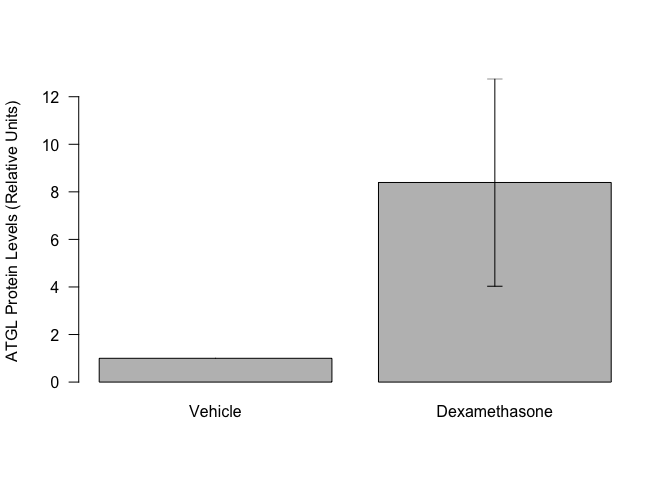
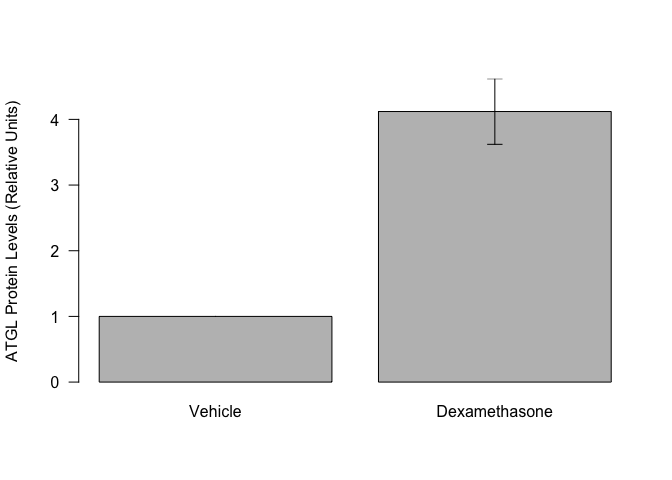
Updated 3T3-L1 blot quantification with Revert normalized values

diff --git a/scripts/scripts-obesity/3T3-L1_Blot_Quantification.html b/scripts/scripts-obesity/3T3-L1_Blot_Quantification.html
@@ -146,7 +146,7 @@ $(document).ready(function () {
 <div id="raw-data" class="section level1">
 <h1>Raw Data</h1>
 <p>The input data is the quantified band intensities.</p>
-<p>These data can be found in /Users/davebrid/Documents/GitHub/CushingAcromegalyStudy/scripts/scripts-obesity in a file named ../../data/raw/3T3-L1 Blot Quantification.csv. This script was most recently updated on Wed Aug 16 14:55:42 2017.</p>
+<p>These data can be found in /Users/davebrid/Documents/GitHub/CushingAcromegalyStudy/scripts/scripts-obesity in a file named ../../data/raw/3T3-L1 Blot Quantification.csv. This script was most recently updated on Sun Sep 3 07:10:51 2017.</p>
 </div>
 <div id="analysis" class="section level1">
 <h1>Analysis</h1>
@@ -158,6 +158,8 @@ $(document).ready(function () {
 <th align="right">ATGL</th>
 <th align="right">GAPDH</th>
 <th align="left">Experiment</th>
+<th align="right">ATGL.Revert</th>
+<th align="right">Revert</th>
 <th align="right">Normalized.Levels</th>
 <th align="right">Relative.Levels</th>
 </tr>
@@ -168,7 +170,9 @@ $(document).ready(function () {
 <td align="right">318500</td>
 <td align="right">855000</td>
 <td align="left">1</td>
-<td align="right">0.373</td>
+<td align="right">6505</td>
+<td align="right">2815000</td>
+<td align="right">0.002</td>
 <td align="right">1.00</td>
 </tr>
 <tr class="even">
@@ -176,7 +180,9 @@ $(document).ready(function () {
 <td align="right">327000</td>
 <td align="right">945500</td>
 <td align="left">2</td>
-<td align="right">0.346</td>
+<td align="right">4820</td>
+<td align="right">2735000</td>
+<td align="right">0.002</td>
 <td align="right">1.00</td>
 </tr>
 <tr class="odd">
@@ -184,23 +190,29 @@ $(document).ready(function () {
 <td align="right">1170000</td>
 <td align="right">803000</td>
 <td align="left">1</td>
-<td align="right">1.457</td>
-<td align="right">3.91</td>
+<td align="right">19600</td>
+<td align="right">2450000</td>
+<td align="right">0.008</td>
+<td align="right">3.46</td>
 </tr>
 <tr class="even">
 <td align="left">Dexamethasone</td>
 <td align="right">1333333</td>
 <td align="right">929000</td>
 <td align="left">2</td>
-<td align="right">1.435</td>
-<td align="right">4.15</td>
+<td align="right">21300</td>
+<td align="right">2370000</td>
+<td align="right">0.009</td>
+<td align="right">5.10</td>
 </tr>
 <tr class="odd">
 <td align="left">Vehicle</td>
 <td align="right">12900</td>
 <td align="right">44600</td>
 <td align="left">3</td>
-<td align="right">0.289</td>
+<td align="right">12900</td>
+<td align="right">84700</td>
+<td align="right">0.152</td>
 <td align="right">1.00</td>
 </tr>
 <tr class="even">
@@ -208,8 +220,10 @@ $(document).ready(function () {
 <td align="right">35800</td>
 <td align="right">7230</td>
 <td align="left">3</td>
-<td align="right">4.952</td>
-<td align="right">17.12</td>
+<td align="right">35800</td>
+<td align="right">61900</td>
+<td align="right">0.578</td>
+<td align="right">3.80</td>
 </tr>
 </tbody>
 </table>
@@ -227,26 +241,27 @@ $(document).ready(function () {
 <tr class="odd">
 <td align="left">Vehicle</td>
 <td align="right">1.00</td>
-<td align="right">0.00</td>
+<td align="right">0.000</td>
 <td align="right">3</td>
 </tr>
 <tr class="even">
 <td align="left">Dexamethasone</td>
-<td align="right">8.39</td>
-<td align="right">4.36</td>
+<td align="right">4.12</td>
+<td align="right">0.499</td>
 <td align="right">3</td>
 </tr>
 </tbody>
 </table>
[2 lines of base64/hex data omitted]
+<p>These data were normalized to total protein stain (Revert) but GAPDH levels were determined as well.</p>
 <div id="statistics" class="section level2">
 <h2>Statistics</h2>
-<p>The relative data were not normally distributed via Shapiro-Wilk test (p=0.03), so we did a Wilcoxon Rank sum test relative 1. This yielded a p-value of <strong>0.25</strong></p>
+<p>The relative data could be assumed to be normally distributed via Shapiro-Wilk test (p=0.373), so we did a one-way <em>t</em>-test relative to a value of 1. This yielded a p-value of <strong>0.025</strong></p>
 </div>
 </div>
 <div id="interpretation" class="section level1">
 <h1>Interpretation</h1>
-<p>ATGL levels were higher, though this did not reach statistical significance.</p>
+<p>ATGL levels were significantly higher in 3T3-L1 adipocytes after dexamethasone treatment.</p>
 </div>
 <div id="session-information" class="section level1">
 <h1>Session Information</h1>

diff --git a/scripts/scripts-obesity/3T3-L1_Blot_Quantification.md b/scripts/scripts-obesity/3T3-L1_Blot_Quantification.md
@@ -16,40 +16,42 @@ The input data is the quantified band intensities.
 
 
 
-These data can be found in /Users/davebrid/Documents/GitHub/CushingAcromegalyStudy/scripts/scripts-obesity in a file named ../../data/raw/3T3-L1 Blot Quantification.csv.  This script was most recently updated on Wed Aug 16 14:55:42 2017.
+These data can be found in /Users/davebrid/Documents/GitHub/CushingAcromegalyStudy/scripts/scripts-obesity in a file named ../../data/raw/3T3-L1 Blot Quantification.csv.  This script was most recently updated on Sun Sep  3 07:10:51 2017.
 
 # Analysis
 
 
 Table: Raw and normalized data
 
-Treatment           ATGL    GAPDH  Experiment    Normalized.Levels   Relative.Levels
---------------  --------  -------  -----------  ------------------  ----------------
-Vehicle           318500   855000  1                         0.373              1.00
-Vehicle           327000   945500  2                         0.346              1.00
-Dexamethasone    1170000   803000  1                         1.457              3.91
-Dexamethasone    1333333   929000  2                         1.435              4.15
-Vehicle            12900    44600  3                         0.289              1.00
-Dexamethasone      35800     7230  3                         4.952             17.12
+Treatment           ATGL    GAPDH  Experiment    ATGL.Revert    Revert   Normalized.Levels   Relative.Levels
+--------------  --------  -------  -----------  ------------  --------  ------------------  ----------------
+Vehicle           318500   855000  1                    6505   2815000               0.002              1.00
+Vehicle           327000   945500  2                    4820   2735000               0.002              1.00
+Dexamethasone    1170000   803000  1                   19600   2450000               0.008              3.46
+Dexamethasone    1333333   929000  2                   21300   2370000               0.009              5.10
+Vehicle            12900    44600  3                   12900     84700               0.152              1.00
+Dexamethasone      35800     7230  3                   35800     61900               0.578              3.80
 
 
 
 Table: Summary data
 
-Treatment        mean     se   length
---------------  -----  -----  -------
-Vehicle          1.00   0.00        3
-Dexamethasone    8.39   4.36        3
+Treatment        mean      se   length
+--------------  -----  ------  -------
+Vehicle          1.00   0.000        3
+Dexamethasone    4.12   0.499        3
 
 ![](figures/3T3-L1-ATGL-quantification-1.png)<!-- -->
 
+These data were normalized to total protein stain (Revert) but GAPDH levels were determined as well.
+
 ## Statistics
 
-The relative data were not normally distributed via Shapiro-Wilk test (p=0.03), so we did a Wilcoxon Rank sum test relative 1.  This yielded a p-value of **0.25**
+The relative data could be assumed to be normally distributed via Shapiro-Wilk test (p=0.373), so we did a one-way *t*-test relative to a value of 1.  This yielded a p-value of **0.025**
 
 # Interpretation
 
-ATGL levels were higher, though this did not reach statistical significance.
+ATGL levels were significantly higher in 3T3-L1 adipocytes after dexamethasone treatment.
 
 # Session Information
 
